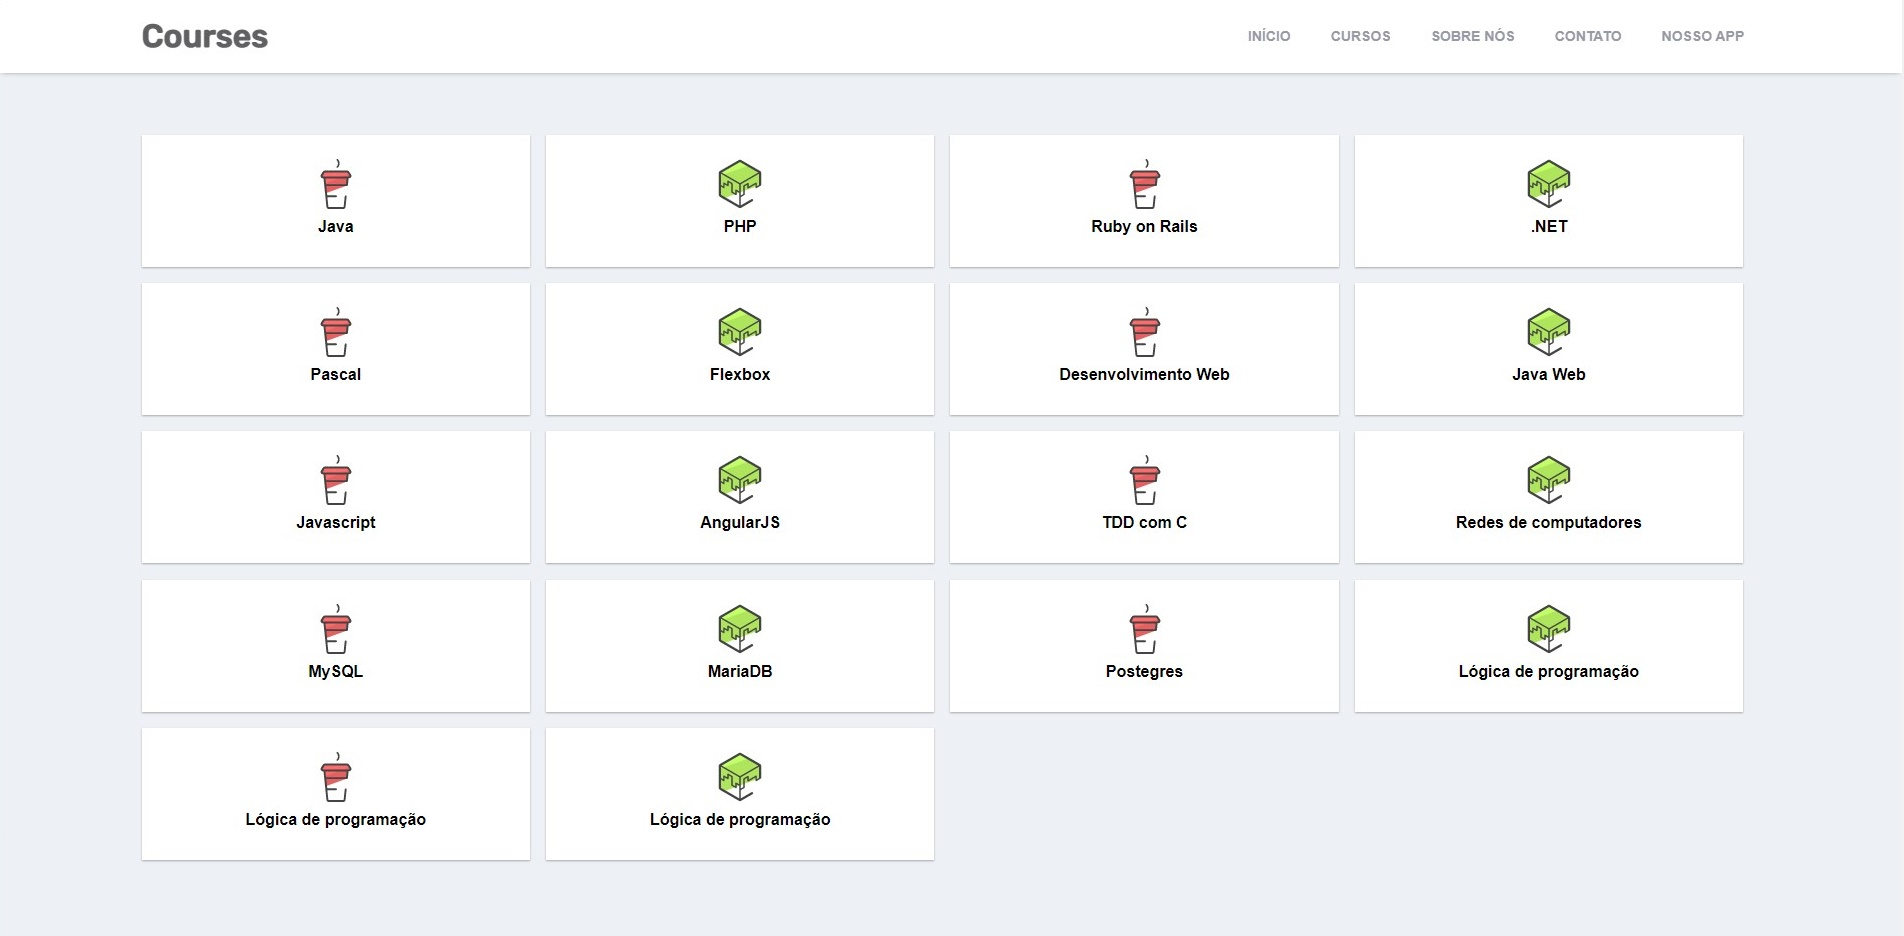
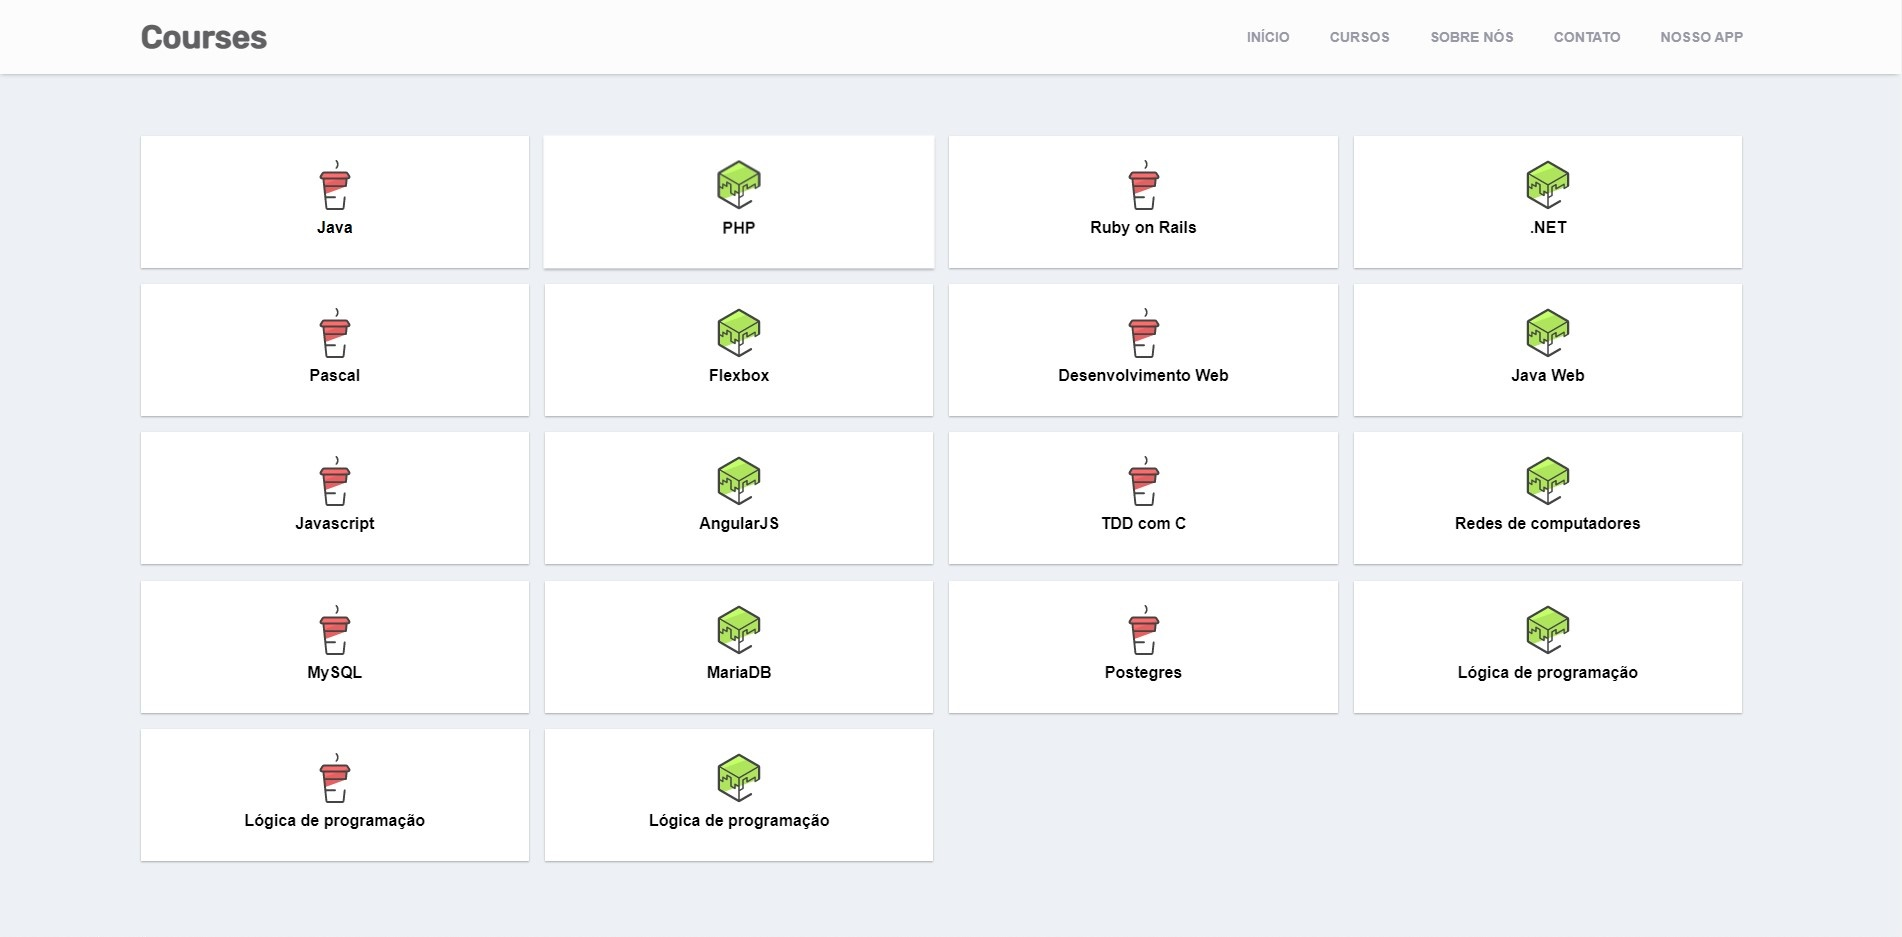
commit

diff --git a/src/css/style.css b/src/css/style.css
@@ -9,7 +9,7 @@ body {
 }
 
 .header {
-	background-color: #FFF;
+	background-color: #fcfcfc;
 	padding: 20px 0;
 	position: fixed;
 	width: 100%;
@@ -41,7 +41,6 @@ body {
 	padding: 10px 15px;
 	margin-bottom: 10px;
 	color: #9799A6;
-	background-color: #FFF;
 	text-decoration: none;
 	transition: .5s;
 	display: block;
